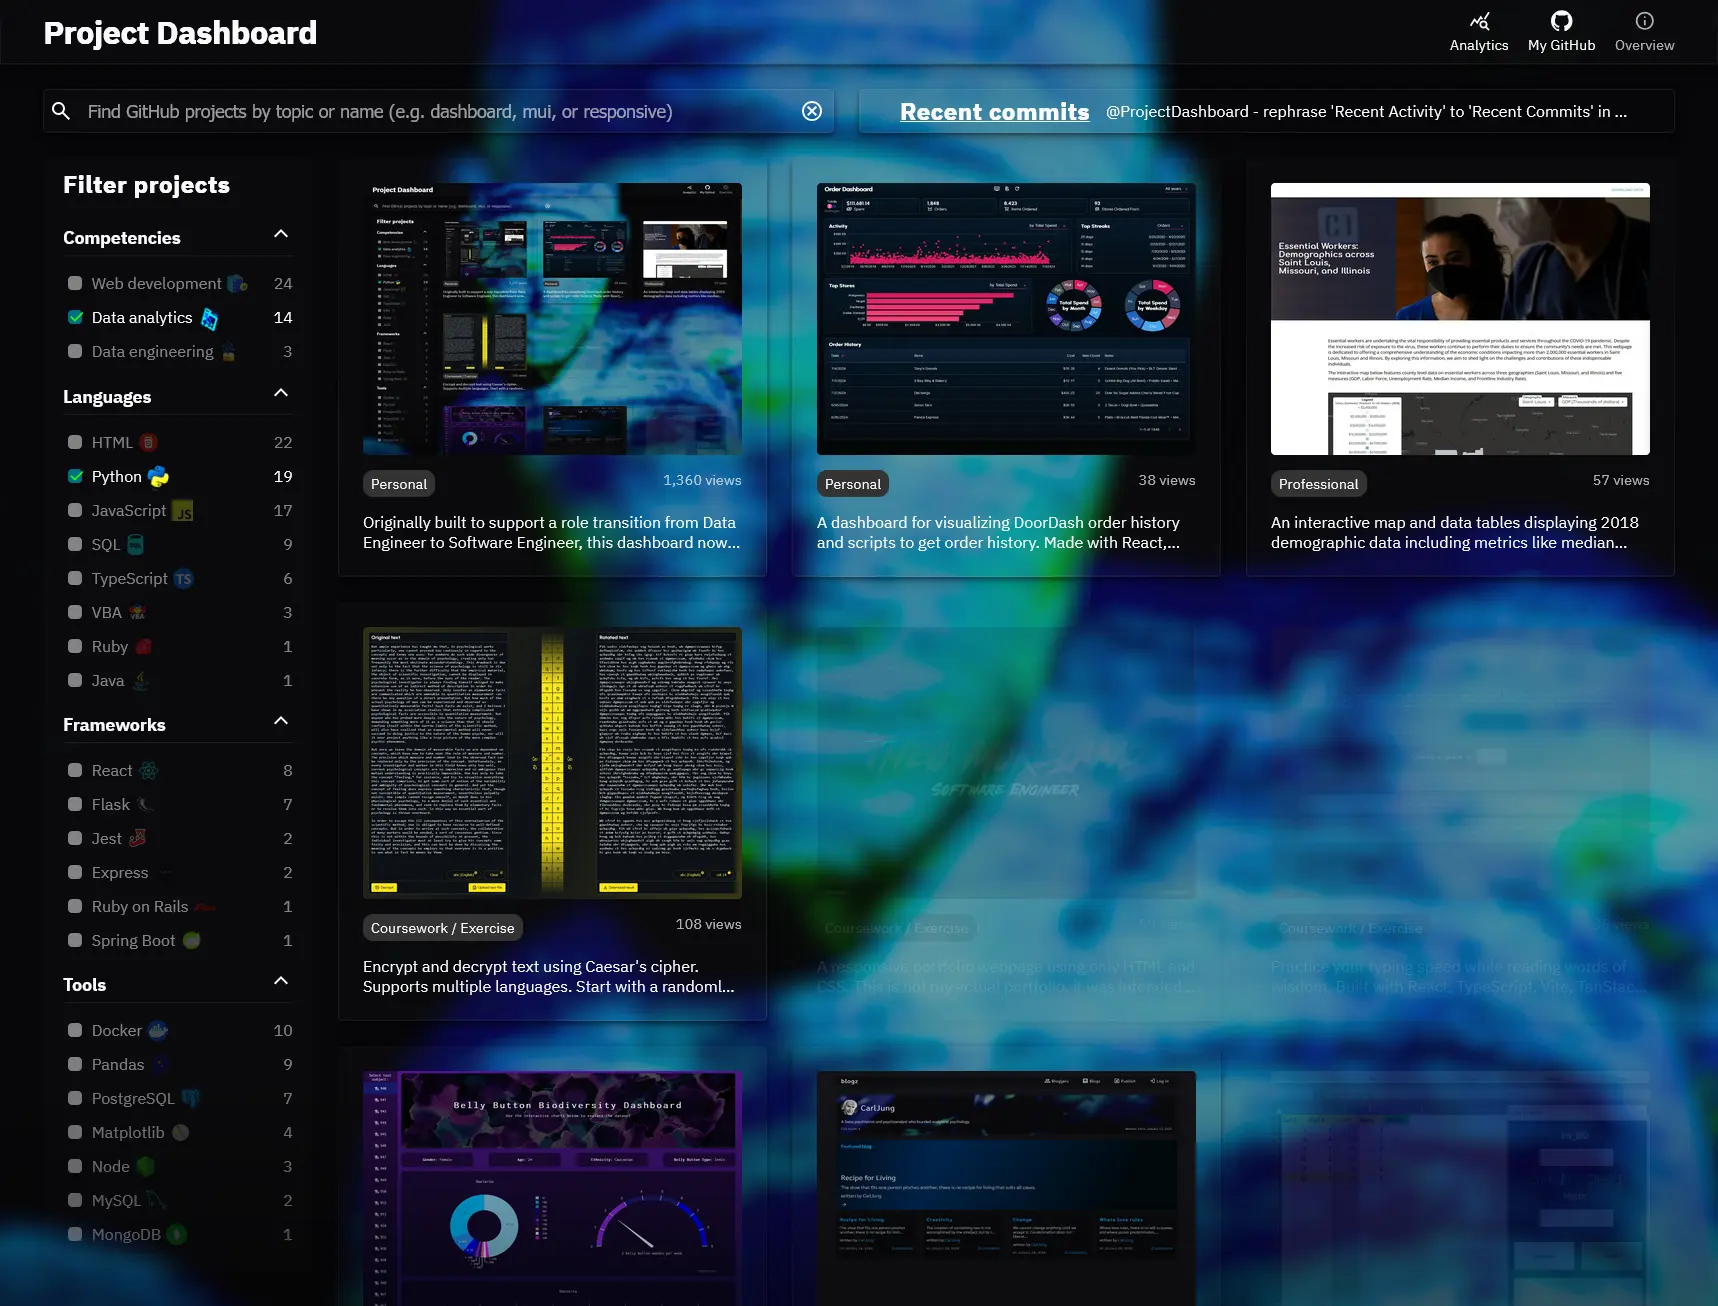
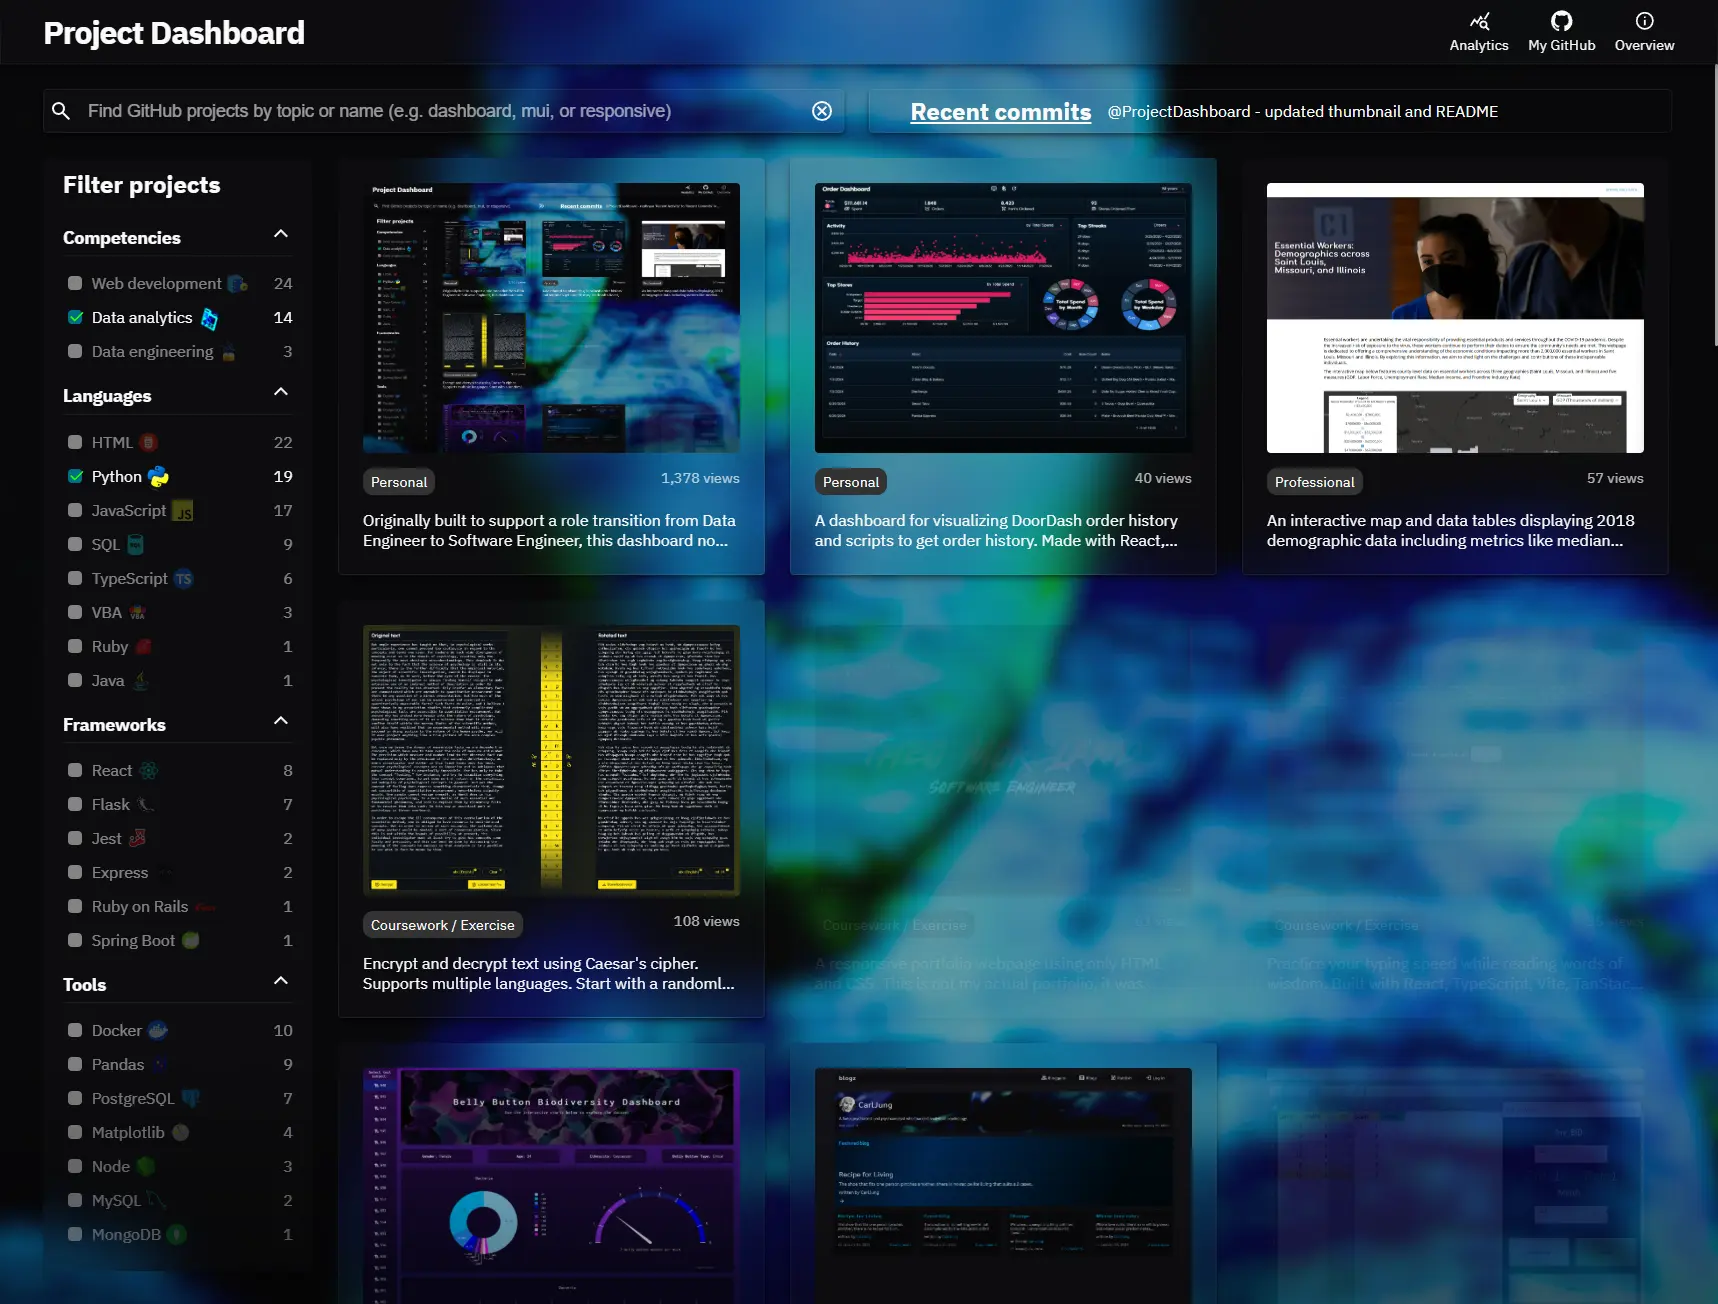
updated thumbnail and updated path for README screenshots

diff --git a/README.md b/README.md
@@ -51,7 +51,7 @@ Additionally, each thumbnail overlay features a `Learn More` button, that when c
 
 Conditionally, a `Live Demo` button appears if the project is actively hosted on a live server. Clicking the button will open a new tab featuring the web application.
 
-<img src="https://dj8eg5xs13hf6.cloudfront.net/project-list/3.png" width="700">
+<img src="https://dj8eg5xs13hf6.cloudfront.net/project-dashboard/3.png" width="700">
 
 ### Filter
 
@@ -59,7 +59,7 @@ Technologies listed on the left panel can be clicked to filter projects by corre
 
 Multiple filters can be applied simultaneously. Any project that does not feature any of the selected technologies will be hidden.
 
-<img src="https://dj8eg5xs13hf6.cloudfront.net/project-list/6.png" width="700">
+<img src="https://dj8eg5xs13hf6.cloudfront.net/project-dashboard/6.png" width="700">
 
 ### Search
 
@@ -67,19 +67,19 @@ The search bar can be used to search for projects by name or GitHub topic.
 
 Some examples include: `dashboard` `responsive` `mui-x` `tanstack-react-query` `jupyter-notebook` `rest-api`
 
-<img src="https://dj8eg5xs13hf6.cloudfront.net/project-list/15.png" width="700">
+<img src="https://dj8eg5xs13hf6.cloudfront.net/project-dashboard/15.png" width="700">
 
 ### Recent commits
 
 Clicking on "Recent commits" will open a modal that previews the 10 most recent commits on my GitHub profile.
 
-<img src="https://dj8eg5xs13hf6.cloudfront.net/project-list/20.png" width="700">
+<img src="https://dj8eg5xs13hf6.cloudfront.net/project-dashboard/20.png" width="700">
 
 ### Analyze
 
 Clicking on the analytics icon in the navbar will display aggregate statistics about the projects featured.
 
-<img src="https://dj8eg5xs13hf6.cloudfront.net/project-list/23.png" width="700">
+<img src="https://dj8eg5xs13hf6.cloudfront.net/project-dashboard/23.png" width="700">
 
 ## Known bugs
 
@@ -90,104 +90,104 @@ Clicking on the analytics icon in the navbar will display aggregate statistics a
 
 ### Desktop
 
-<img src="https://dj8eg5xs13hf6.cloudfront.net/project-list/1.png" width="650">
+<img src="https://dj8eg5xs13hf6.cloudfront.net/project-dashboard/1.png" width="650">
 
-<img src="https://dj8eg5xs13hf6.cloudfront.net/project-list/2.png" width="650">
+<img src="https://dj8eg5xs13hf6.cloudfront.net/project-dashboard/2.png" width="650">
 
-<img src="https://dj8eg5xs13hf6.cloudfront.net/project-list/3.png" width="650">
+<img src="https://dj8eg5xs13hf6.cloudfront.net/project-dashboard/3.png" width="650">
 
-<img src="https://dj8eg5xs13hf6.cloudfront.net/project-list/4.png" width="650">
+<img src="https://dj8eg5xs13hf6.cloudfront.net/project-dashboard/4.png" width="650">
 
-<img src="https://dj8eg5xs13hf6.cloudfront.net/project-list/5.png" width="650">
+<img src="https://dj8eg5xs13hf6.cloudfront.net/project-dashboard/5.png" width="650">
 
-<img src="https://dj8eg5xs13hf6.cloudfront.net/project-list/6.png" width="650">
+<img src="https://dj8eg5xs13hf6.cloudfront.net/project-dashboard/6.png" width="650">
 
-<img src="https://dj8eg5xs13hf6.cloudfront.net/project-list/7.png" width="650">
+<img src="https://dj8eg5xs13hf6.cloudfront.net/project-dashboard/7.png" width="650">
 
-<img src="https://dj8eg5xs13hf6.cloudfront.net/project-list/8.png" width="650">
+<img src="https://dj8eg5xs13hf6.cloudfront.net/project-dashboard/8.png" width="650">
 
-<img src="https://dj8eg5xs13hf6.cloudfront.net/project-list/9.png" width="650">
+<img src="https://dj8eg5xs13hf6.cloudfront.net/project-dashboard/9.png" width="650">
 
-<img src="https://dj8eg5xs13hf6.cloudfront.net/project-list/10.png" width="650">
+<img src="https://dj8eg5xs13hf6.cloudfront.net/project-dashboard/10.png" width="650">
 
-<img src="https://dj8eg5xs13hf6.cloudfront.net/project-list/11.png" width="650">
+<img src="https://dj8eg5xs13hf6.cloudfront.net/project-dashboard/11.png" width="650">
 
-<img src="https://dj8eg5xs13hf6.cloudfront.net/project-list/12.png" width="650">
+<img src="https://dj8eg5xs13hf6.cloudfront.net/project-dashboard/12.png" width="650">
 
-<img src="https://dj8eg5xs13hf6.cloudfront.net/project-list/13.png" width="650">
+<img src="https://dj8eg5xs13hf6.cloudfront.net/project-dashboard/13.png" width="650">
 
-<img src="https://dj8eg5xs13hf6.cloudfront.net/project-list/14.png" width="650">
+<img src="https://dj8eg5xs13hf6.cloudfront.net/project-dashboard/14.png" width="650">
 
-<img src="https://dj8eg5xs13hf6.cloudfront.net/project-list/15.png" width="650">
+<img src="https://dj8eg5xs13hf6.cloudfront.net/project-dashboard/15.png" width="650">
 
-<img src="https://dj8eg5xs13hf6.cloudfront.net/project-list/16.png" width="650">
+<img src="https://dj8eg5xs13hf6.cloudfront.net/project-dashboard/16.png" width="650">
 
-<img src="https://dj8eg5xs13hf6.cloudfront.net/project-list/17.png" width="650">
+<img src="https://dj8eg5xs13hf6.cloudfront.net/project-dashboard/17.png" width="650">
 
-<img src="https://dj8eg5xs13hf6.cloudfront.net/project-list/18.png" width="650">
+<img src="https://dj8eg5xs13hf6.cloudfront.net/project-dashboard/18.png" width="650">
 
-<img src="https://dj8eg5xs13hf6.cloudfront.net/project-list/19.png" width="650">
+<img src="https://dj8eg5xs13hf6.cloudfront.net/project-dashboard/19.png" width="650">
 
-<img src="https://dj8eg5xs13hf6.cloudfront.net/project-list/20.png" width="650">
+<img src="https://dj8eg5xs13hf6.cloudfront.net/project-dashboard/20.png" width="650">
 
-<img src="https://dj8eg5xs13hf6.cloudfront.net/project-list/21.png" width="650">
+<img src="https://dj8eg5xs13hf6.cloudfront.net/project-dashboard/21.png" width="650">
 
-<img src="https://dj8eg5xs13hf6.cloudfront.net/project-list/22.png" width="650">
+<img src="https://dj8eg5xs13hf6.cloudfront.net/project-dashboard/22.png" width="650">
 
-<img src="https://dj8eg5xs13hf6.cloudfront.net/project-list/23.png" width="650">
+<img src="https://dj8eg5xs13hf6.cloudfront.net/project-dashboard/23.png" width="650">
 
-<img src="https://dj8eg5xs13hf6.cloudfront.net/project-list/24.png" width="650">
+<img src="https://dj8eg5xs13hf6.cloudfront.net/project-dashboard/24.png" width="650">
 
-<img src="https://dj8eg5xs13hf6.cloudfront.net/project-list/25.png" width="650">
+<img src="https://dj8eg5xs13hf6.cloudfront.net/project-dashboard/25.png" width="650">
 
-<img src="https://dj8eg5xs13hf6.cloudfront.net/project-list/26.png" width="650">
+<img src="https://dj8eg5xs13hf6.cloudfront.net/project-dashboard/26.png" width="650">
 
-<img src="https://dj8eg5xs13hf6.cloudfront.net/project-list/27.png" width="650">
+<img src="https://dj8eg5xs13hf6.cloudfront.net/project-dashboard/27.png" width="650">
 
 ### Mobile
 
-<img src="https://dj8eg5xs13hf6.cloudfront.net/project-list/28.png" width="250">
+<img src="https://dj8eg5xs13hf6.cloudfront.net/project-dashboard/28.png" width="250">
 
-<img src="https://dj8eg5xs13hf6.cloudfront.net/project-list/29.png" width="250">
+<img src="https://dj8eg5xs13hf6.cloudfront.net/project-dashboard/29.png" width="250">
 
-<img src="https://dj8eg5xs13hf6.cloudfront.net/project-list/30.png" width="250">
+<img src="https://dj8eg5xs13hf6.cloudfront.net/project-dashboard/30.png" width="250">
 
-<img src="https://dj8eg5xs13hf6.cloudfront.net/project-list/31.png" width="250">
+<img src="https://dj8eg5xs13hf6.cloudfront.net/project-dashboard/31.png" width="250">
 
-<img src="https://dj8eg5xs13hf6.cloudfront.net/project-list/32.png" width="250">
+<img src="https://dj8eg5xs13hf6.cloudfront.net/project-dashboard/32.png" width="250">
 
-<img src="https://dj8eg5xs13hf6.cloudfront.net/project-list/33.png" width="250">
+<img src="https://dj8eg5xs13hf6.cloudfront.net/project-dashboard/33.png" width="250">
 
-<img src="https://dj8eg5xs13hf6.cloudfront.net/project-list/34.png" width="250">
+<img src="https://dj8eg5xs13hf6.cloudfront.net/project-dashboard/34.png" width="250">
 
-<img src="https://dj8eg5xs13hf6.cloudfront.net/project-list/35.png" width="250">
+<img src="https://dj8eg5xs13hf6.cloudfront.net/project-dashboard/35.png" width="250">
 
-<img src="https://dj8eg5xs13hf6.cloudfront.net/project-list/36.png" width="250">
+<img src="https://dj8eg5xs13hf6.cloudfront.net/project-dashboard/36.png" width="250">
 
-<img src="https://dj8eg5xs13hf6.cloudfront.net/project-list/37.png" width="250">
+<img src="https://dj8eg5xs13hf6.cloudfront.net/project-dashboard/37.png" width="250">
 
-<img src="https://dj8eg5xs13hf6.cloudfront.net/project-list/38.png" width="250">
+<img src="https://dj8eg5xs13hf6.cloudfront.net/project-dashboard/38.png" width="250">
 
-<img src="https://dj8eg5xs13hf6.cloudfront.net/project-list/39.png" width="250">
+<img src="https://dj8eg5xs13hf6.cloudfront.net/project-dashboard/39.png" width="250">
 
-<img src="https://dj8eg5xs13hf6.cloudfront.net/project-list/40.png" width="250">
+<img src="https://dj8eg5xs13hf6.cloudfront.net/project-dashboard/40.png" width="250">
 
-<img src="https://dj8eg5xs13hf6.cloudfront.net/project-list/41.png" width="250">
+<img src="https://dj8eg5xs13hf6.cloudfront.net/project-dashboard/41.png" width="250">
 
-<img src="https://dj8eg5xs13hf6.cloudfront.net/project-list/42.png" width="250">
+<img src="https://dj8eg5xs13hf6.cloudfront.net/project-dashboard/42.png" width="250">
 
-<img src="https://dj8eg5xs13hf6.cloudfront.net/project-list/43.png" width="250">
+<img src="https://dj8eg5xs13hf6.cloudfront.net/project-dashboard/43.png" width="250">
 
-<img src="https://dj8eg5xs13hf6.cloudfront.net/project-list/44.png" width="250">
+<img src="https://dj8eg5xs13hf6.cloudfront.net/project-dashboard/44.png" width="250">
 
-<img src="https://dj8eg5xs13hf6.cloudfront.net/project-list/45.png" width="250">
+<img src="https://dj8eg5xs13hf6.cloudfront.net/project-dashboard/45.png" width="250">
 
-<img src="https://dj8eg5xs13hf6.cloudfront.net/project-list/46.png" width="250">
+<img src="https://dj8eg5xs13hf6.cloudfront.net/project-dashboard/46.png" width="250">
 
-<img src="https://dj8eg5xs13hf6.cloudfront.net/project-list/47.png" width="250">
+<img src="https://dj8eg5xs13hf6.cloudfront.net/project-dashboard/47.png" width="250">
 
-<img src="https://dj8eg5xs13hf6.cloudfront.net/project-list/48.png" width="250">
+<img src="https://dj8eg5xs13hf6.cloudfront.net/project-dashboard/48.png" width="250">
 
-<img src="https://dj8eg5xs13hf6.cloudfront.net/project-list/49.png" width="250">
+<img src="https://dj8eg5xs13hf6.cloudfront.net/project-dashboard/49.png" width="250">
 
-<img src="https://dj8eg5xs13hf6.cloudfront.net/project-list/50.png" width="250">
+<img src="https://dj8eg5xs13hf6.cloudfront.net/project-dashboard/50.png" width="250">
